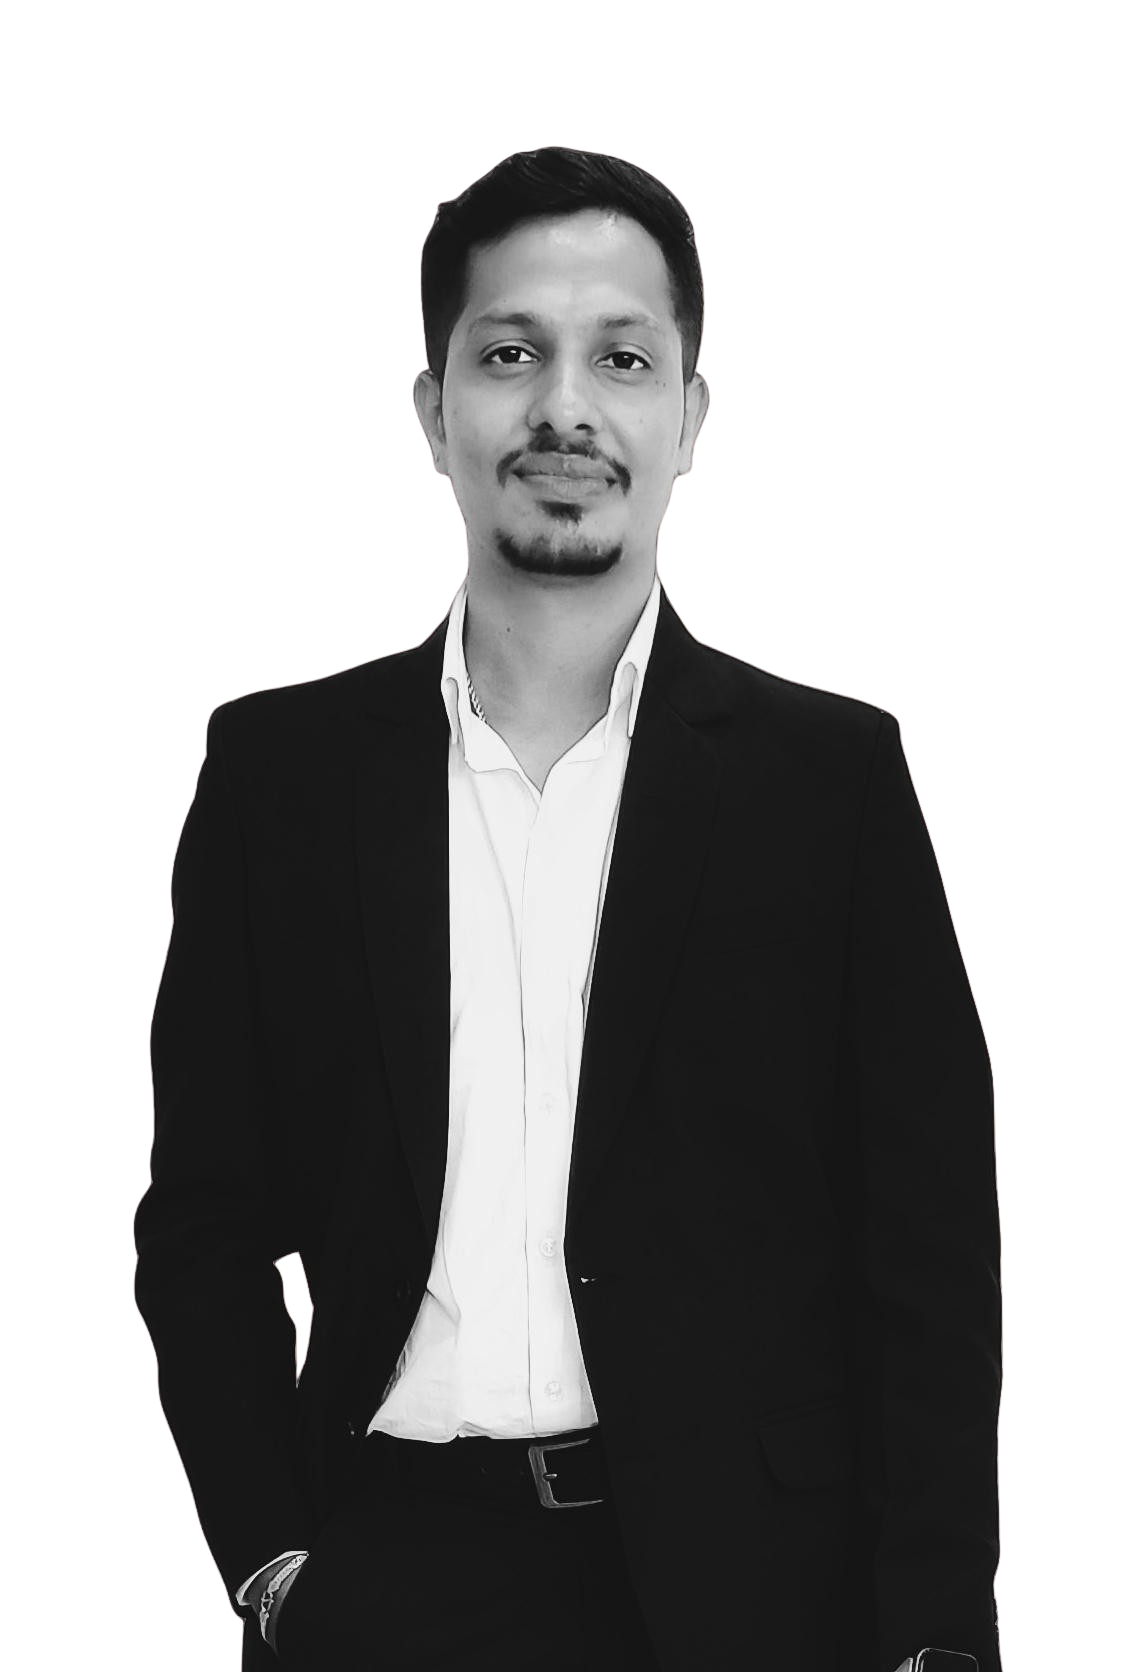
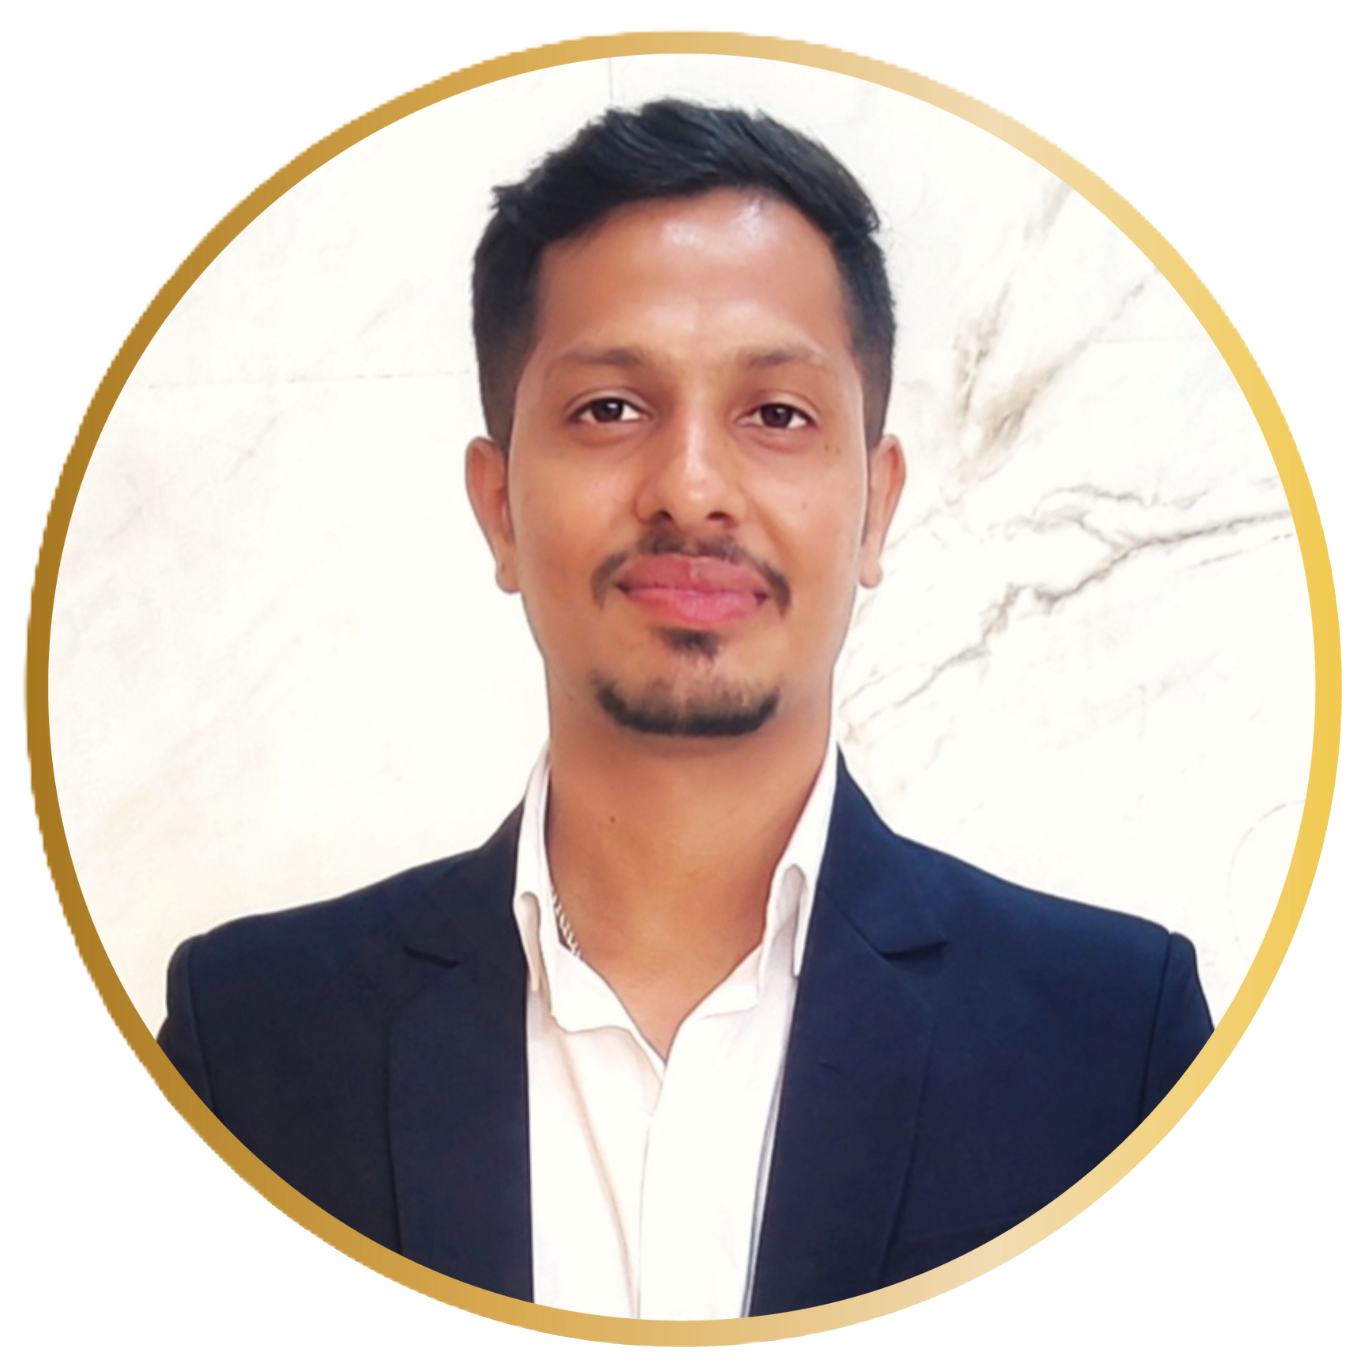
Updated profile and hero section images.

diff --git a/index.html b/index.html
@@ -3,11 +3,12 @@
 <head>
     <meta charset="UTF-8">
     <meta name="viewport" content="width=device-width, initial-scale=1.0">
-    <title>Developer Portfolio</title>
+    <title>Punith B Chandakavate Portfolio</title>
     <link href="https://cdnjs.cloudflare.com/ajax/libs/bootstrap/5.3.2/css/bootstrap.min.css" rel="stylesheet">
     <link href="https://cdnjs.cloudflare.com/ajax/libs/font-awesome/6.4.2/css/all.min.css" rel="stylesheet">
     <link href="https://cdn.jsdelivr.net/npm/skill-icons/css/skill-icons.css" rel="stylesheet">
     <link href="https://fonts.googleapis.com/css2?family=Merriweather:wght@700&family=Poppins:wght@400;700&display=swap" rel="stylesheet">
+    <link rel="icon" href="profile_photo.png" type="image/x-icon">
 
     <style>
         :root {
@@ -79,7 +80,7 @@
             }
         }
         .hero-section {
-            background: linear-gradient(rgba(0,0,0,0.7), rgba(0,0,0,0.7)), url('profile_photo.png') no-repeat 160% 10%/80%;
+            background: linear-gradient(rgba(0,0,0,0.7), rgba(0,0,0,0.7)), url('hero_section.png') no-repeat 160% 10%/80%;
             text-align: center;
         }
 
@@ -275,7 +276,7 @@
             border-radius: 4px;
             font-size: 14px;
             display: inline-block;
-            margin-left: -95px;
+            margin-left: -110px;
         }
 
 
@@ -349,7 +350,10 @@
     <!-- Navbar -->
     <nav class="navbar navbar-expand-lg navbar-dark bg-dark fixed-top">
         <div class="container">
-            <a class="navbar-brand" href="#">Punith B Chandakavate</a>
+            <a class="navbar-brand" href="#">
+                <img src="profile_photo.png" alt="Punith B Chandakavate" style="height: 30px; margin-right: 10px;">
+                Punith B Chandakavate
+              </a>
             <button class="navbar-toggler" type="button" data-bs-toggle="collapse" data-bs-target="#navbarNav">
                 <span class="navbar-toggler-icon"></span>
             </button>
@@ -520,7 +524,7 @@
                         <div class="card-body">
                             <h5 class="card-title">EasyTimePro</h5>
                             <p class="card-text">A user-friendly time tracking tool aimed at freelancers and small businesses. I worked closely with a team of developers to ensure seamless integration of features and a smooth user experience.</p>
-                            <a href="http://www.easytimepro.in/" class="btn btn-primary contact-button mt-3" target="_blank">View Project</a>
+                            <a href="https://www.zkteco.in/time-attendance-software/easy-time-pro" class="btn btn-primary contact-button mt-3" target="_blank">View Project</a>
                         </div>
                     </div>
                 </div>
@@ -587,9 +591,9 @@
     <script>
         const experienceData = [
             {
-                year: 'Oct-2022 to Now',
+                year: 'Oct 2022 - Present',
                 title: "Junior Python Developer",
-                company: "Bengaluru, India",
+                company: "ZKTeco India - Global R&D Center, Bengaluru, India",
                 description: "A Python Developer with expertise in creating scalable, secure applications and optimizing performance. Key contributions include developing APIs with Django REST Framework, modernizing the UI of BioTimeCloud, and addressing security vulnerabilities in EasyTimePro. Experienced in leading teams, managing project timelines, and collaborating with clients to deliver customized solutions. Strong focus on problem-solving, code optimization, and ensuring high-quality application delivery."
             }
         ];
